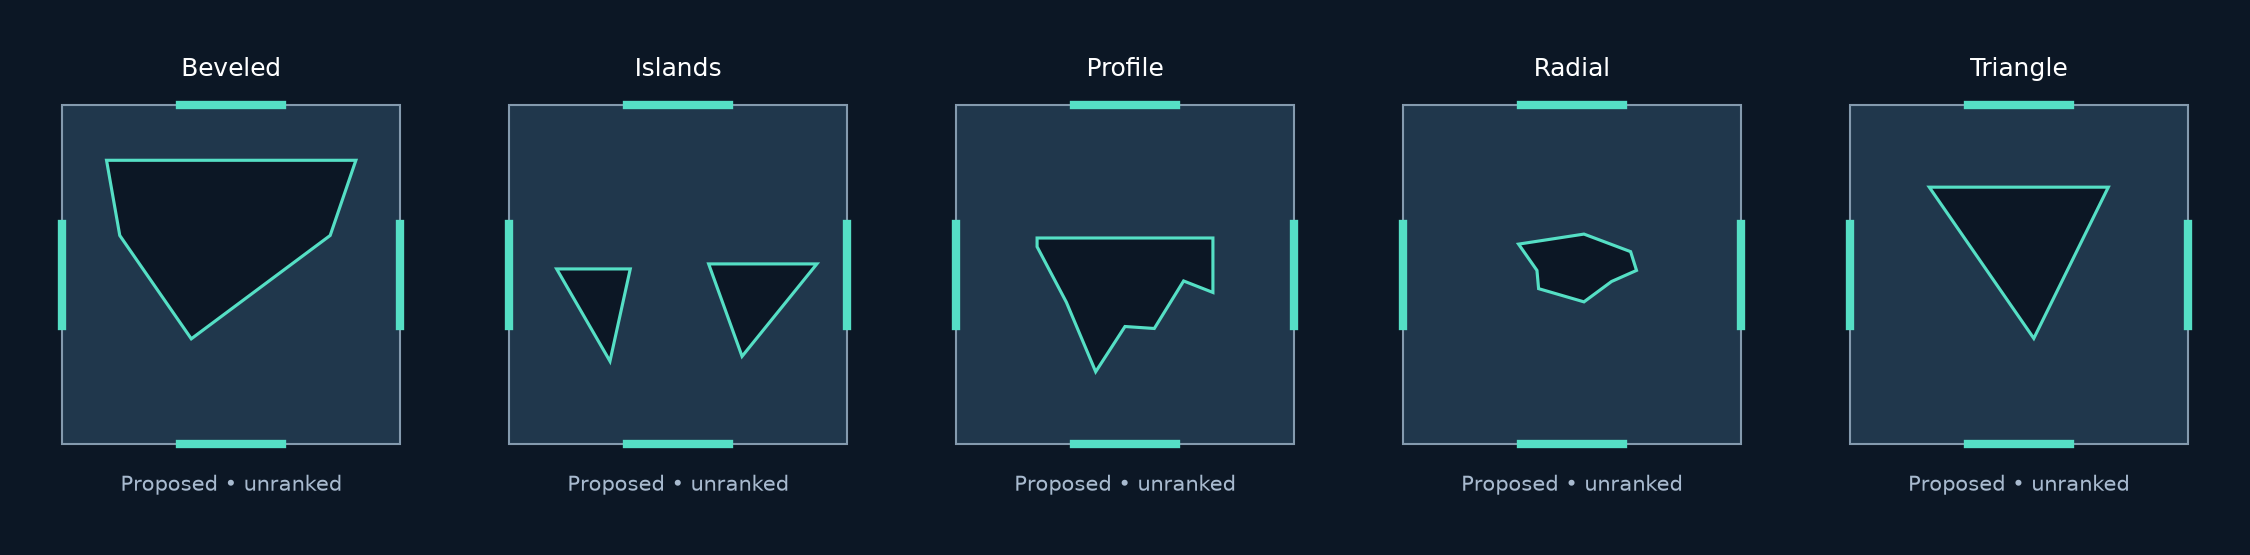
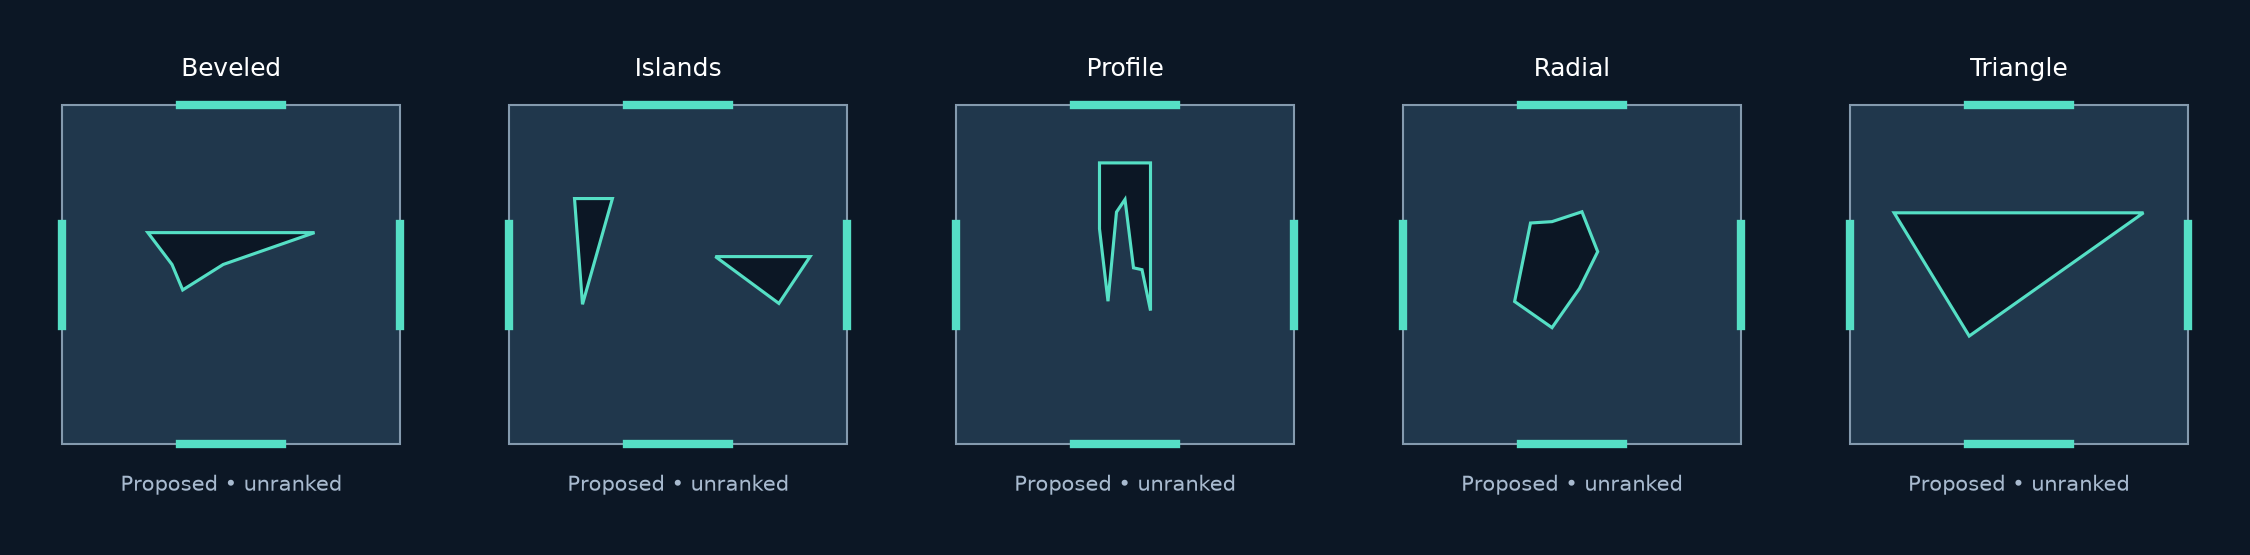
Refresh generated research evidence

diff --git a/README.md b/README.md
@@ -1,7 +1,7 @@
 # Ballistic Device Lab
 
 <!-- activity:start -->
-**Computing · Updated 2026-10-25 05:55 UTC**
+**Computing · Updated 2026-10-25 06:00 UTC**
 
 Fresh evolutionary shape search · [Data snapshot](results/live/evidence.json) · Published every 5 minutes while the publisher runs.
 <!-- activity:end -->
